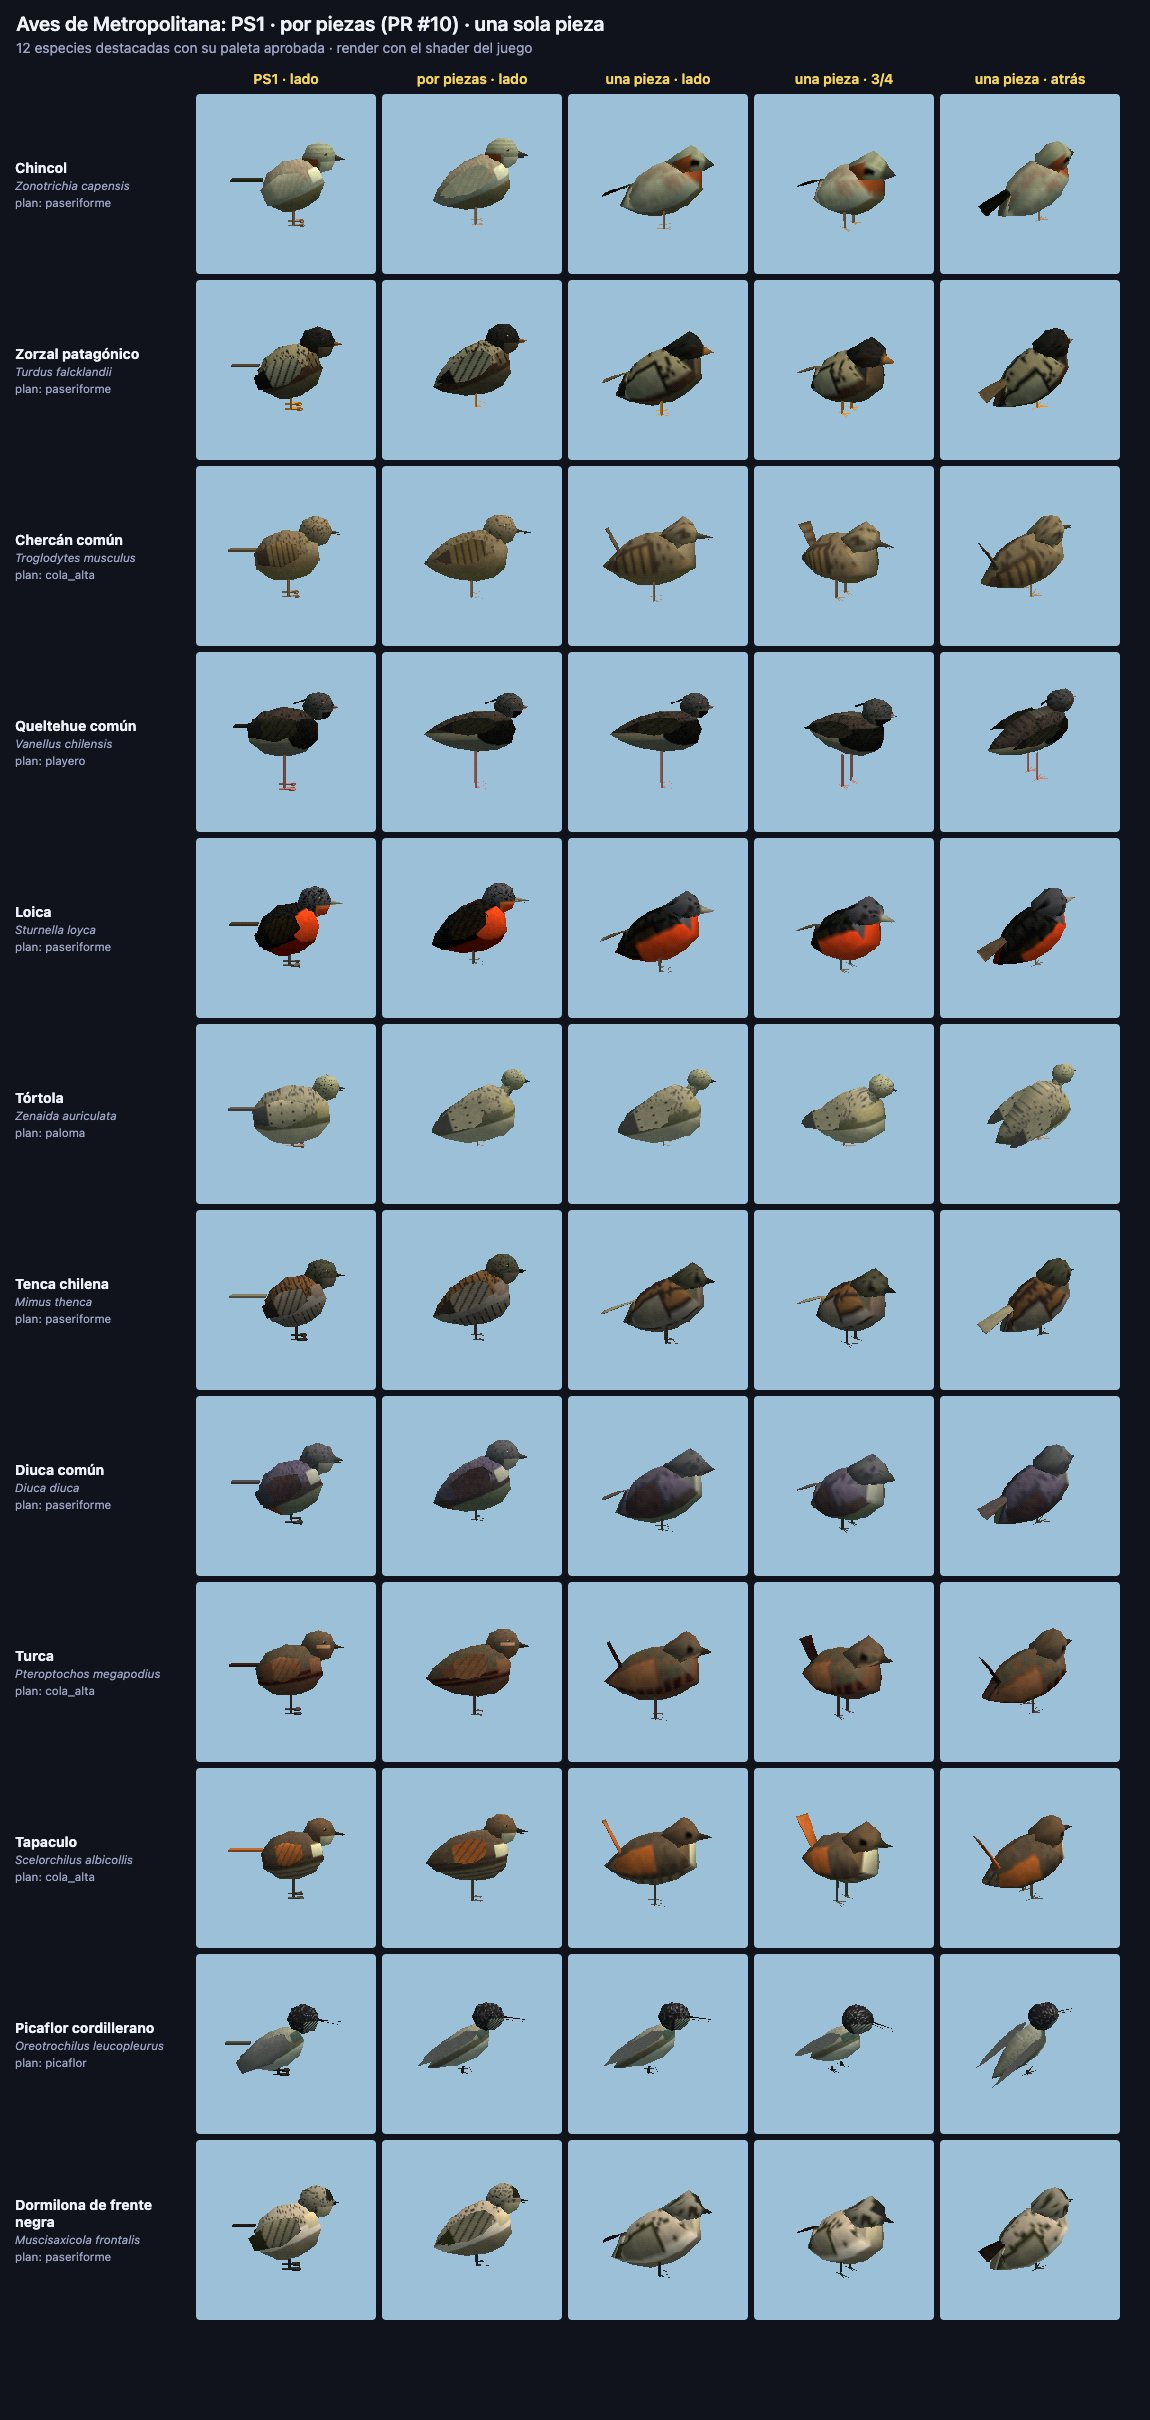
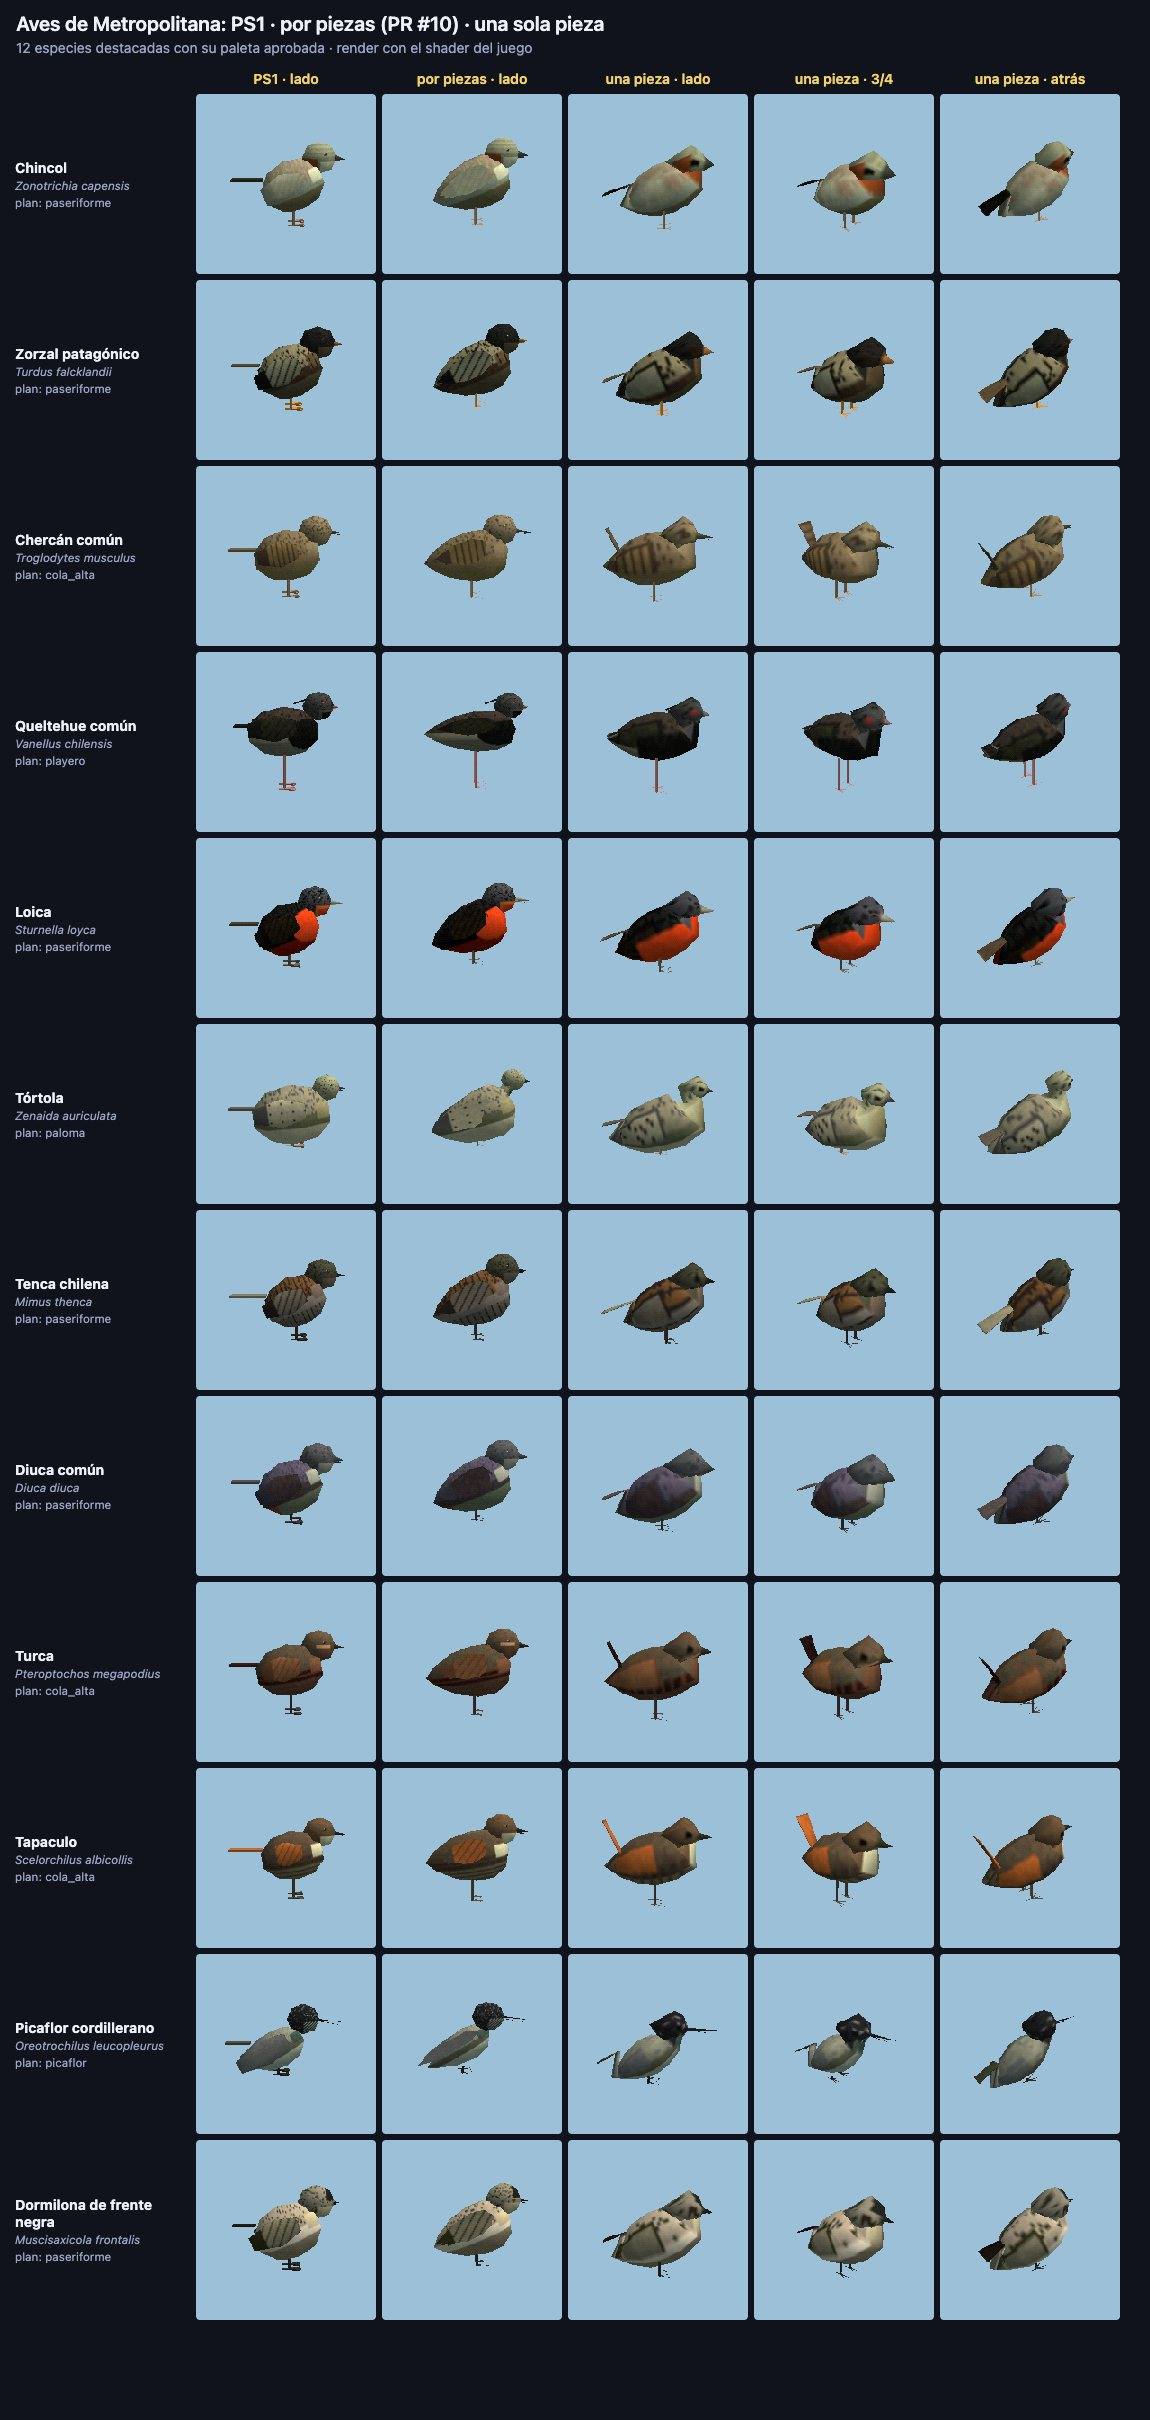
Aves de una sola pieza para todos los planes
- Perfil por plan en js/bird1.js: paloma, gaviota, pato/cisne (vientre plano, popa levantada, pico ancho), pelícano (bolsa), rapaz, pingüino, flamenco/cisne/garza (cuello en S continuo), ñandú/cormorán (cuello largo), loro (pico ganchudo), codorniz (penacho), queltehue (cresta)
- Verificado en el juego: todas las aves de Metropolitana, Valparaíso y Magallanes son de una pieza, sin errores
- Registro, NOTAS y KIT actualizados

diff --git a/js/bird1.js b/js/bird1.js
@@ -12,17 +12,39 @@ const TAU = Math.PI * 2;
 const SIDES = 6;
 const plain = texPlain();
 
-// Perfil del cuerpo a lo largo de su eje (s = −1.25 cola … 0.85 pecho alto): fracción del radio.
-const BODY_PROFILE = [[-1.25, 0.24], [-1.0, 0.48], [-0.55, 0.86], [0.0, 1.0], [0.45, 0.95], [0.82, 0.72]];
+// Perfil del cuerpo a lo largo de su eje (s = −1.25 cola … 0.82 pecho alto): [s, fracción del radio, alza].
+// "alza" sube el centro del anillo (popa levantada del pato). Siluetas tomadas de las referencias
+// (Half-Life 2, Zoo Tycoon 2, Poly Pizza): ver docs/registro_modelos.md.
+const P0 = [[-1.25, 0.24], [-1.0, 0.48], [-0.55, 0.86], [0.0, 1.0], [0.45, 0.95], [0.82, 0.72]];
+const PROFILES = {
+  paloma: [[-1.25, 0.26], [-1.0, 0.5], [-0.55, 0.88], [0.0, 1.0], [0.45, 1.03], [0.82, 0.8]],     // pecho profundo
+  playero: [[-1.25, 0.2], [-1.0, 0.42], [-0.55, 0.82], [0.0, 1.0], [0.45, 0.92], [0.82, 0.66]],  // esbelto
+  garza: [[-1.25, 0.2], [-1.0, 0.42], [-0.55, 0.82], [0.0, 1.0], [0.45, 0.9], [0.82, 0.62]],
+  picaflor: [[-1.25, 0.2], [-1.0, 0.4], [-0.55, 0.8], [0.0, 1.0], [0.45, 0.9], [0.82, 0.6]],
+  gaviota: [[-1.3, 0.22], [-1.0, 0.45], [-0.55, 0.82], [0.0, 1.0], [0.5, 0.95], [0.85, 0.66]],   // torpedo
+  pelicano: [[-1.25, 0.3], [-1.0, 0.56], [-0.55, 0.92], [0.0, 1.05], [0.45, 1.0], [0.82, 0.75]], // pesado
+  cormoran: [[-1.25, 0.24], [-1.0, 0.48], [-0.55, 0.86], [0.0, 1.0], [0.45, 0.95], [0.82, 0.7]],
+  pato: [[-1.25, 0.3, 0.3], [-1.0, 0.55, 0.15], [-0.55, 0.88], [0.0, 1.0], [0.45, 0.98], [0.82, 0.72]], // bote
+  cisne: [[-1.25, 0.3, 0.3], [-1.0, 0.55, 0.15], [-0.55, 0.9], [0.0, 1.02], [0.45, 1.0], [0.82, 0.72]],
+  rapaz: [[-1.25, 0.24], [-1.0, 0.45], [-0.55, 0.8], [0.0, 1.0], [0.45, 1.04], [0.82, 0.8]],     // hombros anchos
+  loro: [[-1.25, 0.22], [-1.0, 0.45], [-0.55, 0.82], [0.0, 1.0], [0.45, 1.0], [0.82, 0.78]],
+  carpintero: [[-1.25, 0.22], [-1.0, 0.45], [-0.55, 0.82], [0.0, 1.0], [0.45, 0.98], [0.82, 0.74]],
+  codorniz: [[-1.25, 0.3], [-1.0, 0.62], [-0.55, 0.95], [0.0, 1.05], [0.45, 1.0], [0.82, 0.7]],   // redonda
+  nandu: [[-1.25, 0.35], [-1.0, 0.7], [-0.55, 1.0], [0.0, 1.05], [0.45, 0.95], [0.82, 0.62]],
+  pinguino: [[-1.25, 0.3], [-1.0, 0.75], [-0.55, 1.0], [0.0, 0.95], [0.45, 0.8], [0.82, 0.6]],   // huevo erguido
+  flamenco: [[-1.2, 0.3], [-1.0, 0.6], [-0.55, 0.95], [0.0, 1.0], [0.45, 0.9], [0.82, 0.6]],
+};
+const FLAT_BELLY = { pato: 0.55, cisne: 0.6 };   // vientre plano de las aves que flotan
+const S_NECK = new Set(['flamenco', 'cisne', 'garza']);
 
 /** Anillo de SIDES vértices perpendicular a `axis` (en el plano x-y), alto h y ancho w. k=0 = vientre. */
-function ring(center, axis, w, h) {
+function ring(center, axis, w, h, fb = 1) {
   const z = new THREE.Vector3(0, 0, 1);
   const up = new THREE.Vector3().crossVectors(z, axis).normalize();
   const pts = [];
   for (let k = 0; k <= SIDES; k++) { // el último repite el primero (costura de la textura)
-    const a = TAU * k / SIDES;
-    pts.push(center.clone().addScaledVector(up, -Math.cos(a) * h).addScaledVector(z, Math.sin(a) * w));
+    const a = TAU * k / SIDES, c = -Math.cos(a);
+    pts.push(center.clone().addScaledVector(up, c * h * (c < 0 ? fb : 1)).addScaledVector(z, Math.sin(a) * w));
   }
   return pts;
 }
@@ -31,7 +53,7 @@ function ring(center, axis, w, h) {
  * Esqueleto de anillos de la especie en el espacio de bodyPivot (mismo espacio que el ave por piezas).
  * Devuelve [{c, w, h, zone, wHead, wTail}] + datos de pivotes.
  */
-function skeleton(pl, f, hs, headBase, bl, br) {
+function skeleton(pl, f, hs, headBase, bl, br, plan) {
   const B = pl.body, t = pl.tilt;
   const C = new THREE.Vector3(0.05, 0.72, 0);
   const d = new THREE.Vector3(Math.cos(t), Math.sin(t), 0);
@@ -40,21 +62,28 @@ function skeleton(pl, f, hs, headBase, bl, br) {
   const tailPivot = new THREE.Vector3(...(pl.tailPos || [-1.0 * B[0] / 1.15, 0.9]), 0);
   const tr = pl.tail, tdir = new THREE.Vector3(-Math.cos(tr), -Math.sin(tr), 0);
   const L = 1.05 * f.tail;
-  const tw = pl === undefined ? 1 : 1;
+  const tw = plan === 'picaflor' ? 0.6 : plan === 'gaviota' || plan === 'pinguino' ? 0.75 : 1;
   R.push({ c: tailPivot.clone().addScaledVector(tdir, L), w: 0.34 * tw, h: 0.025, zone: 'cola', wTail: 1, end: true });
   R.push({ c: tailPivot.clone().addScaledVector(tdir, L * 0.5), w: 0.27 * tw, h: 0.04, zone: 'cola', wTail: 1 });
   R.push({ c: tailPivot.clone().addScaledVector(tdir, 0.05), w: 0.2, h: 0.08, zone: 'cola', wTail: 0.7 });
   // cuerpo
-  for (const [s, k] of BODY_PROFILE) {
-    R.push({ c: C.clone().addScaledVector(d, s * B[0]), w: k * B[2], h: k * B[1], zone: 'cuerpo' });
+  const fb = FLAT_BELLY[plan] || 1;
+  for (const [s, k, lift = 0] of PROFILES[plan] || P0) {
+    R.push({ c: C.clone().addScaledVector(d, s * B[0]).add(new THREE.Vector3(0, lift * B[1], 0)), w: k * B[2], h: k * B[1], fb, zone: 'cuerpo' });
   }
   // cuello (mezcla) y cabeza: la cabeza mira al frente (+x)
   const neckFrom = C.clone().addScaledVector(d, 0.85 * B[0]);
   const nl = pl.neckLen ?? 0;
-  const nNeck = nl > 0.3 ? 3 : 1;
+  const nNeck = nl > 0.3 ? Math.min(6, Math.round(nl * 4)) : 1;
+  // cuello en S (flamenco, cisne, garza): los anillos siguen una curva; si no, recto
+  const dir = headBase.clone().sub(neckFrom), Ln = dir.length(), nd = dir.clone().normalize(), side = new THREE.Vector3(nd.y, -nd.x, 0);
+  const curve = S_NECK.has(plan) ? new THREE.CatmullRomCurve3([neckFrom.clone(), neckFrom.clone().addScaledVector(dir, 0.33).addScaledVector(side, Ln * 0.16),
+    neckFrom.clone().addScaledVector(dir, 0.7).addScaledVector(side, -Ln * 0.1), headBase.clone()]) : null;
   for (let i = 1; i <= nNeck; i++) {
     const k = i / (nNeck + 1);
-    R.push({ c: neckFrom.clone().lerp(headBase, k), w: hs * (0.72 - 0.1 * (nNeck > 1 ? 1 - k : 0)), h: hs * 0.78, zone: 'cuello', wHead: 0.25 + 0.5 * k });
+    const c = curve ? curve.getPoint(k) : neckFrom.clone().lerp(headBase, k);
+    const thin = nNeck > 1 ? 0.62 : 0.72;
+    R.push({ c, w: hs * thin, h: hs * (thin + 0.06), zone: 'cuello', wHead: 0.25 + 0.5 * k });
   }
   const hx = new THREE.Vector3(1, 0, 0);
   R.push({ c: headBase.clone().addScaledVector(hx, -0.6 * hs).add(new THREE.Vector3(0, 0.02, 0)), w: hs * 0.82, h: hs * 0.86, zone: 'cabeza', wHead: 1 });
@@ -62,8 +91,14 @@ function skeleton(pl, f, hs, headBase, bl, br) {
   R.push({ c: headBase.clone().add(new THREE.Vector3(0.52 * hs, -0.03, 0)), w: hs * 0.72, h: hs * 0.74, zone: 'cabeza', wHead: 1 });
   // pico: base y punta (la punta es un vértice)
   const beakBase = headBase.clone().add(new THREE.Vector3(0.88 * hs, -0.06, 0));
-  R.push({ c: beakBase, w: br * 1.05, h: br * 1.15, zone: 'pico', wHead: 1 });
-  const tip = beakBase.clone().add(new THREE.Vector3(bl, -0.04 - (pl.bentBill ? bl * 0.6 : 0), 0));
+  if (pl.bill) { // pico ancho y plano (pato, cisne): se mantiene ancho hasta la punta
+    R.push({ c: beakBase, w: br * 1.7, h: br * 0.75, zone: 'pico', wHead: 1 });
+    R.push({ c: beakBase.clone().add(new THREE.Vector3(bl * 0.8, -0.03, 0)), w: br * 1.6, h: br * 0.35, zone: 'pico', wHead: 1 });
+  } else {
+    const hook = pl.hookBill ? 1.6 : 1;
+    R.push({ c: beakBase, w: br * 1.05 * hook, h: br * 1.15 * hook, zone: 'pico', wHead: 1 });
+  }
+  const tip = beakBase.clone().add(new THREE.Vector3(pl.hookBill ? bl * 0.55 : bl, -0.04 - (pl.bentBill ? bl * 0.6 : 0) - (pl.hookBill ? bl * 0.45 : 0), 0));
   return { R, tip, tailPivot, C, beakBase };
 }
 
@@ -133,13 +168,13 @@ function paintSpecies(sp, P, layout) {
  */
 export function buildBirdOnePiece(sp, plan, ctx) {
   const { pl, f, hs, headBase, bl, br, legLen, P, wingGeo, wingLen, footGeo, tarsusGeo } = ctx;
-  const { R, tip, tailPivot, C } = skeleton(pl, f, hs, headBase, bl, br);
+  const { R, tip, tailPivot, C } = skeleton(pl, f, hs, headBase, bl, br, plan);
 
   // ---- malla: anillos + punta del pico; u por largo acumulado ----
   const rings = R.map((r, i) => {
     const prev = R[Math.max(0, i - 1)].c, next = i < R.length - 1 ? R[i + 1].c : tip;
     const axis = next.clone().sub(prev).normalize();
-    return { ...r, pts: ring(r.c, axis, r.w, r.h) };
+    return { ...r, pts: ring(r.c, axis, r.w, r.h, r.fb) };
   });
   const lens = [0];
   for (let i = 1; i < rings.length; i++) lens.push(lens[i - 1] + rings[i].c.distanceTo(rings[i - 1].c));
@@ -195,9 +230,21 @@ export function buildBirdOnePiece(sp, plan, ctx) {
 
   // mandíbula inferior (chica, para cantar), bajo el pico
   const mBeak = mat(plain, { tint: (P.beak[0] << 16) | (P.beak[1] << 8) | P.beak[2] });
-  const lower = new THREE.Mesh(new THREE.ConeGeometry(br * 0.7, bl * 0.8, 3).rotateZ(-Math.PI / 2).translate(bl * 0.4, 0, 0).scale(1, 0.4, 1), mBeak);
+  const pouch = pl.pouch ? [2.4, 0.9] : pl.bill ? [1.6, 0.25] : [0.7, 0.4];   // bolsa del pelícano / pico plano
+  const lower = new THREE.Mesh(new THREE.ConeGeometry(br * pouch[0], bl * 0.8, 3).rotateZ(-Math.PI / 2).translate(bl * 0.4, 0, 0).scale(1, pouch[1], 1),
+    pl.pouch ? mat(plain, { tint: 0xc89868 }) : mBeak);
   lower.position.set(0.88 * hs, -0.1, 0); lower.rotation.z = -0.15; head.add(lower); meshes.push(lower);
   const upper = new THREE.Group(); upper.rotation.z = 0; head.add(upper); // el pico superior es parte de la malla
+  // adornos de la cabeza: penacho (codorniz) y cresta (queltehue y otros)
+  if (pl.topknot) {
+    const k = new THREE.Mesh(new THREE.BoxGeometry(0.08, 0.45, 0.05).translate(0, 0.22, 0), mat(plain, { tint: 0x201a18 }));
+    k.position.set(hs * 0.2, hs * 0.8, 0); k.rotation.z = -0.5; head.add(k); meshes.push(k);
+  }
+  if (pl.crest || sp.sciName === 'Vanellus chilensis') {
+    const c = P.back_dark;
+    const crest = new THREE.Mesh(new THREE.BoxGeometry(0.5, 0.05, 0.04).translate(-0.25, 0, 0), mat(plain, { tint: (c[0] << 16) | (c[1] << 8) | c[2] }));
+    crest.position.set(-hs * 0.6, hs * 0.5, 0); crest.rotation.z = 0.35; head.add(crest); meshes.push(crest);
+  }
 
   // alas de vuelo: solo visibles al aletear
   const mWing = mat(ctx.wingTex, { twoSided: true });

diff --git a/js/bird.js b/js/bird.js
@@ -10,7 +10,8 @@ import { buildBirdOnePiece } from './bird1.js';
 
 // Planes que ya se construyen como una sola pieza (js/bird1.js). setOnePiece(false) vuelve al ave por piezas
 // (lo usa docs/registro/aves.html para comparar).
-const ONE_PIECE = new Set(['paseriforme', 'cola_alta']);
+const ONE_PIECE = new Set(['paseriforme', 'cola_alta', 'paloma', 'playero', 'picaflor', 'gaviota', 'pelicano', 'cormoran', 'garza',
+  'pato', 'rapaz', 'codorniz', 'nandu', 'pinguino', 'flamenco', 'cisne', 'loro', 'carpintero']);
 let onePieceOn = true;
 export function setOnePiece(on) { onePieceOn = on; }
 

diff --git a/docs/registro_modelos.md b/docs/registro_modelos.md
@@ -92,7 +92,7 @@ Re-Volt que se usaron de referencia. Con ellas se arman 14 especies de plantas y
 
 ## Aves: antes y después
 
-Las aves se arman en `js/bird.js` por plan de cuerpo, con las proporciones de AVONET y la paleta aprobada
+Las aves se arman por plan de cuerpo (hoy en `js/bird1.js`, ver "Una sola pieza"), con las proporciones de AVONET y la paleta aprobada
 de cada especie. **Antes:** cuerpo, cabeza, ala y cola eran esferas y una caja. **Después:** piezas
 modeladas en Blender (`blender/aves_build.py` → `models/kit/ave_partes.glb`): cuerpo en gota, cabeza con
 frente, ala plana con las primarias en punta y cola en abanico, en el mismo espacio que las primitivas
@@ -100,18 +100,26 @@ frente, ala plana con las primarias en punta y cola en abanico, en el mismo espa
 ~220 triángulos por ave (antes 188). Hay piezas propias para paloma, gaviota, pingüino, flamenco, pato, pelícano, rapaz, picaflor y
 playero (abajo); loro, carpintero, codorniz y ñandú siguen con las del ave base.
 
-### Una sola pieza (versión vigente para paseriformes)
+### Una sola pieza (versión vigente, todos los planes)
 
 Las piezas de Blender (arriba) no cambiaron la construcción: seguía siendo un **ensamble** (cabeza = otra
 esfera encajada, pico = cono pegado, alas y cola = placas que sobresalen, 5–6 texturas). Las referencias
-(Poly Pizza, Half-Life 2) son **una malla continua con una textura**, igual que Poroto N64. Ahora cada ave
-de los planes paseriforme y cola alta es **una sola malla** generada en `js/bird1.js`: loft de 6 lados de
+(Poly Pizza, Half-Life 2) son **una malla continua con una textura**, igual que Poroto N64. Ahora cada ave es **una sola malla** generada en `js/bird1.js`: loft de 6 lados de
 la punta de la cola al pico (cola → cuerpo → cuello → cabeza → pico), **una textura de 64×32** pintada
 encima (ojo, máscara, garganta, ala plegada, patrones y acentos de la paleta) y **168 triángulos**. La
 cabeza y la cola se animan deformando solo sus vértices (mezcla en el cuello); las alas de vuelo aparecen
 solo al aletear. Columnas: PS1 · por piezas (PR #10) · una pieza.
 
 ![Paseriformes: PS1, por piezas y una sola pieza](registro/img/aves_una_pieza_paseriformes.jpg)
+
+Después se extendió a **todos los planes** con un perfil por plan tomado de las referencias: pecho profundo
+(paloma), torpedo (gaviota), bote de vientre plano con popa levantada y pico ancho (pato, cisne), cuerpo
+pesado con bolsa (pelícano), hombros anchos (rapaz), huevo erguido (pingüino), cuello en S continuo
+(flamenco, cisne, garza), cuello largo recto (ñandú, pelícano, cormorán), pico ganchudo (loro) y adornos
+(penacho de la codorniz, cresta del queltehue).
+
+![Rapaz, pato, garza, pelícano, cisnes, cóndor y flamenco de una pieza](registro/img/aves_una_pieza_planes_1.jpg)
+![Loro, carpintero, ñandú y pingüino de una pieza](registro/img/aves_una_pieza_planes_2.jpg)
 
 ### Planes propios: paloma y gaviota
 

diff --git a/blender/KIT.md b/blender/KIT.md
@@ -46,7 +46,11 @@ Referencias disponibles: `assets/referencias/` (índice en `assets/referencias/I
 | `muelle` | muelle de madera con pilotes | MA | 1,6 | 40–80 | tablones + pilotes 4 lados | — |
 | `tronco_caido`, `madriguera` | tronco de lenga en el suelo; cueva de pingüino | MA | 0,4–0,8 | 20–40 | prisma / domo con hueco pintado | — |
 
-## Aves — planes de cuerpo (`js/bird.js`), una malla por plan y la paleta por especie
+## Aves — planes de cuerpo
+
+**Vigente:** cada ave es una sola malla generada en `js/bird1.js` (perfil por plan + textura pintada); las
+piezas de `ave_partes.glb` solo se usan para las alas de vuelo. La tabla de abajo queda como registro de
+referencias por plan.
 
 Una malla base por plan; la especie cambia paleta (textura), proporciones (pico, cola, patas) y escala.
 

diff --git a/blender/NOTAS.md b/blender/NOTAS.md
@@ -71,7 +71,7 @@ Cómo trabajamos los modelos del Aviario 3D y qué aprendimos. Estilo objetivo: 
 - Qué hace bien y mal el MCP de Blender (bloqueos y low poly sí; topología de producción no):
   https://www.strayspark.studio/blog/blender-mcp-ai-assisted-3d-modeling-step-by-step-2026
 
-## Aves: de ensamble a una sola pieza (plan acordado el 2026-10-01, pendiente)
+## Aves: de ensamble a una sola pieza (acordado y hecho el 2026-10-01: js/bird1.js, todos los planes)
 
 Diagnóstico (medido en Blender sobre las referencias): las aves de Poly Pizza y Half-Life 2 son **1 malla
 continua con 1 textura**; las nuestras (PR #10) son ~12 piezas con 5–6 materiales: cabeza = otra esfera
